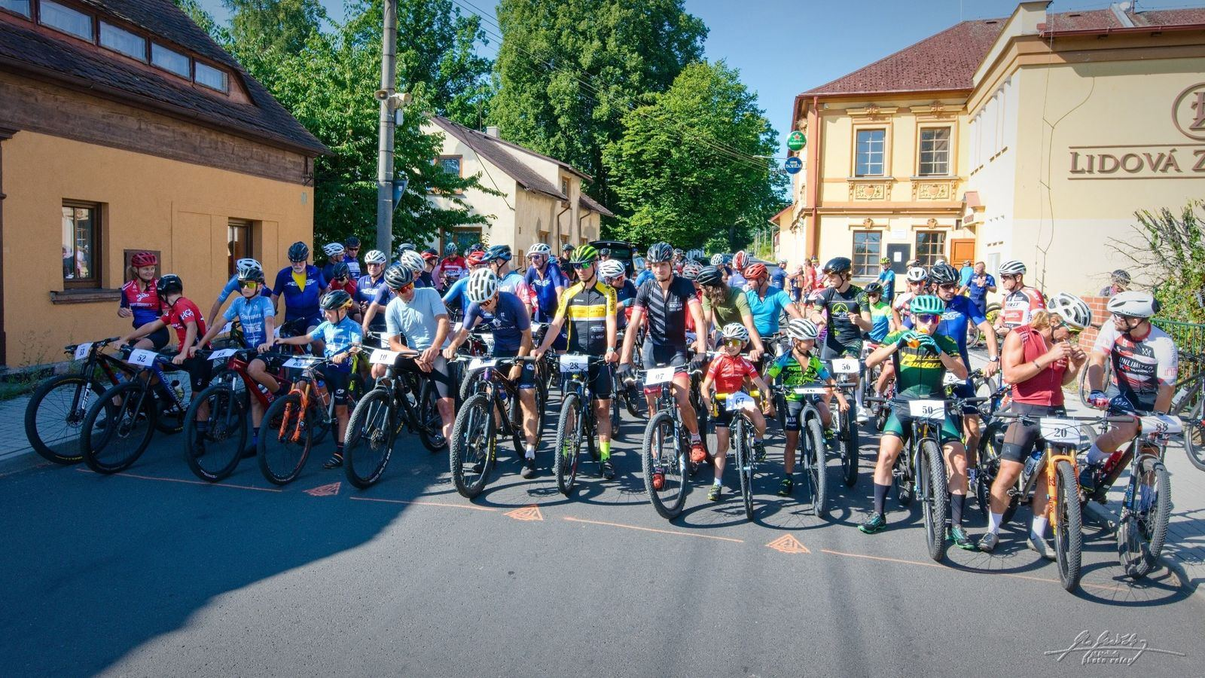
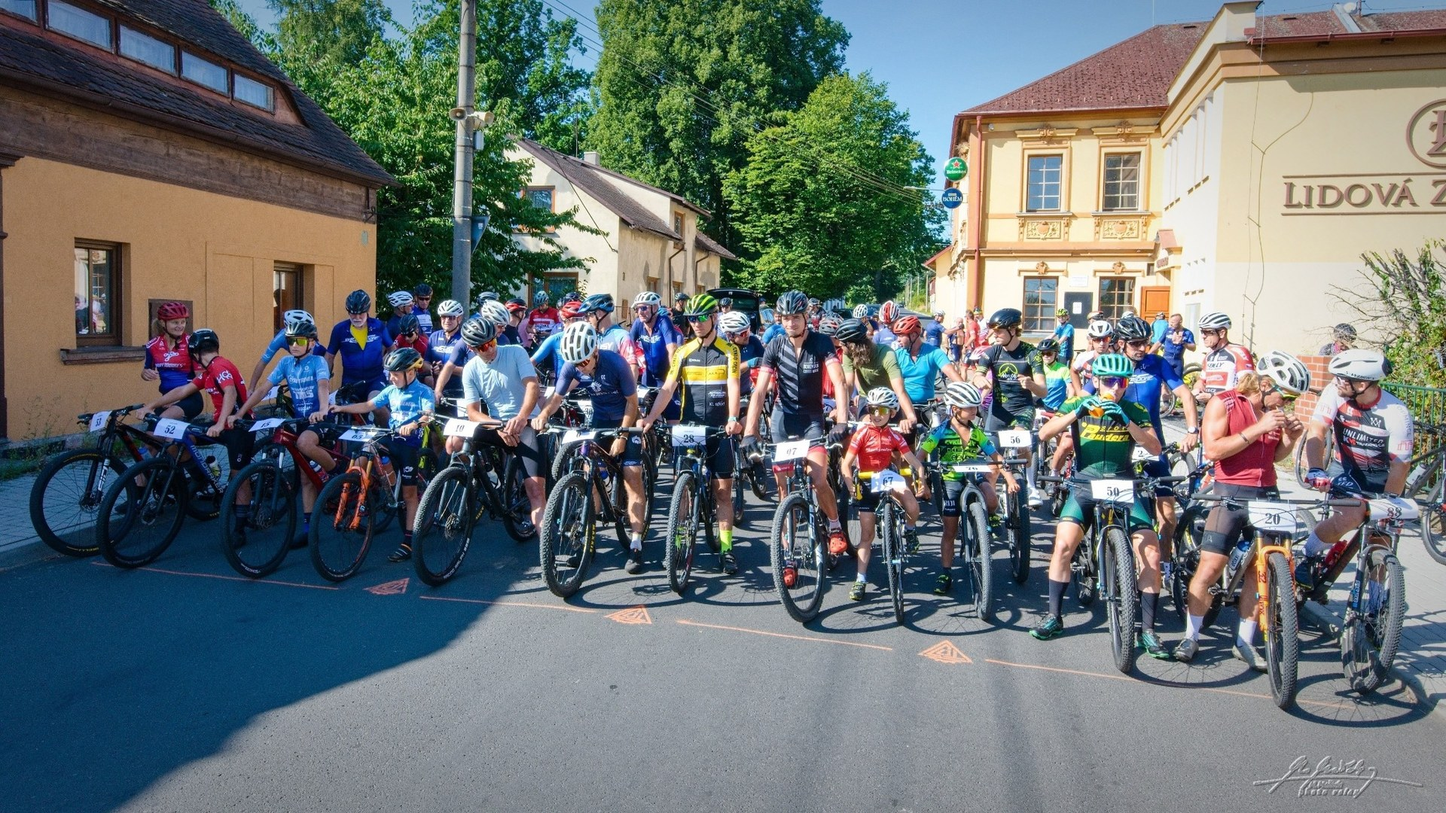
web Tour de Jedlova v 1.15.1
fotogalerie 2024

diff --git a/assets/css/style.css b/assets/css/style.css
@@ -1974,3 +1974,16 @@ html { scroll-behavior: smooth; }
 #fotogalerie-2024 .tdj-2026-slider{display:block!important;width:100%!important;max-width:none!important;margin:0!important;}
 #fotogalerie-2024 .tdj-photo-links{width:100%!important;max-width:none!important;}
 @media(max-width:760px){#fotogalerie-2024 .tdj-gallery-main{width:88vw!important;}#fotogalerie-2024 .tdj-gallery-hero h1{font-size:clamp(42px,12vw,60px)!important;}#fotogalerie-2024 .tdj-gallery-hero p{font-size:16px!important;}}
+
+/* V1.15.1 — Fotogalerie 2024: exact geometry match to 2026 */
+#fotogalerie-2024 .tdj-gallery-main{width:min(1120px,86vw)!important;max-width:none!important;}
+#fotogalerie-2024 .tdj-gallery-hero{display:block!important;grid-template-columns:none!important;gap:0!important;padding:10px 0 52px!important;border-bottom:0!important;}
+#fotogalerie-2024 .tdj-gallery-hero h1{font-size:clamp(58px,7vw,104px)!important;line-height:.88!important;max-width:900px!important;margin:0 0 22px!important;letter-spacing:-.055em!important;font-weight:950!important;}
+#fotogalerie-2024 .tdj-gallery-hero p{font-size:20px!important;line-height:1.55!important;margin:0!important;max-width:700px!important;}
+#fotogalerie-2024 .tdj-gallery-content{width:100%!important;max-width:none!important;margin:52px 0 0!important;padding:0!important;border-top:0!important;}
+#fotogalerie-2024 .tdj-2026-slider{display:block!important;width:100%!important;max-width:none!important;margin:0!important;}
+#fotogalerie-2024 .tdj-photo-links{width:100%!important;max-width:none!important;}
+@media(max-width:760px){
+  #fotogalerie-2024 .tdj-gallery-main{width:88vw!important;}
+  #fotogalerie-2024 .tdj-gallery-hero h1{font-size:54px!important;}
+}
